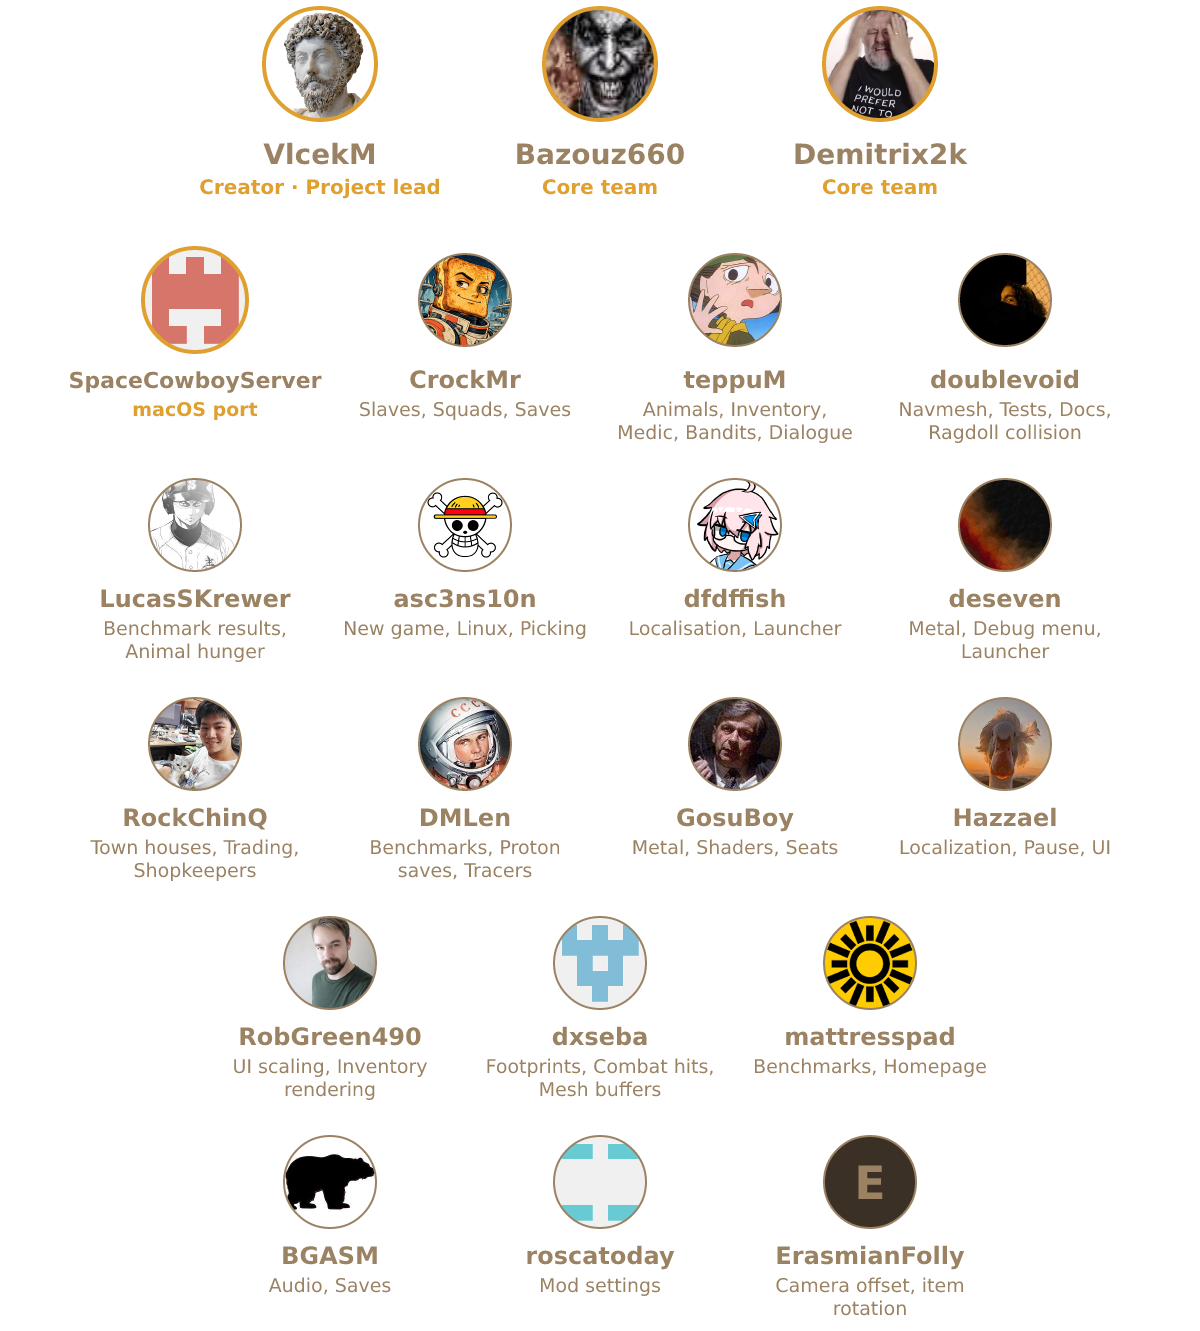
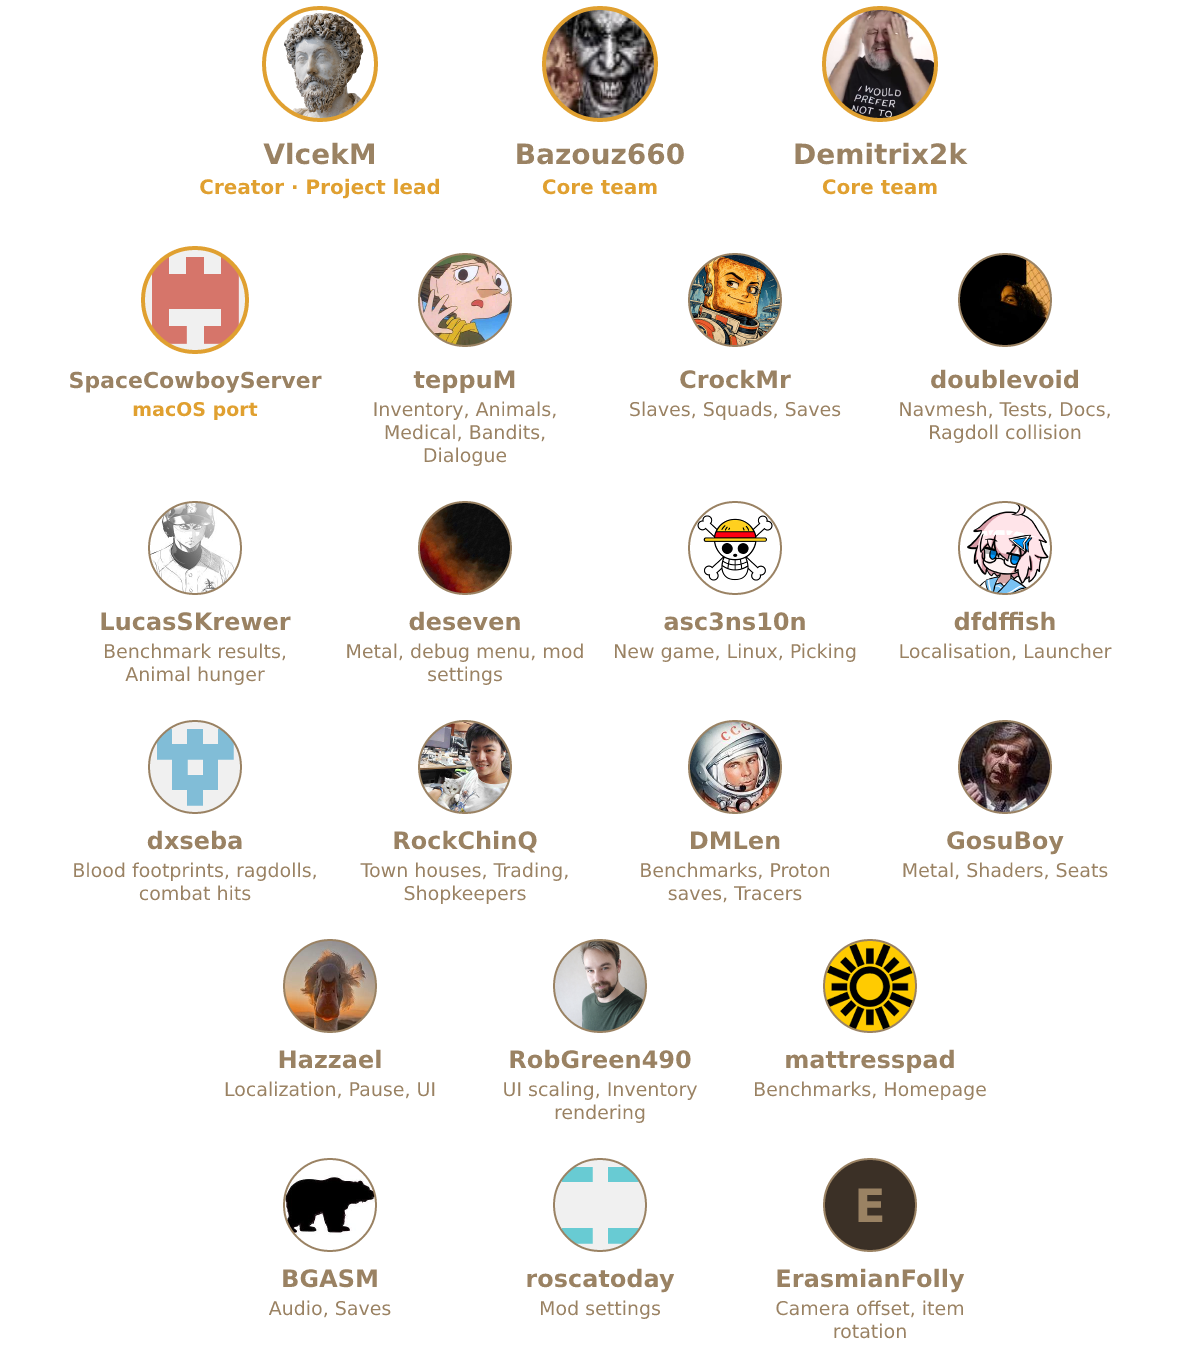
Contributors panel redrawn

diff --git a/README.md b/README.md
@@ -8,7 +8,7 @@ C#/.NET 11 reimplementation of [Kenshi](https://lofigames.com/), aiming to run o
 mods and saves unchanged. **No game assets are shipped; an installed legal copy is required.**
 Architecture/research: [docs index](docs/README.md). Website: [meitou.kenshi.wiki](https://meitou.kenshi.wiki/).
 
-[![Contributors](assets/branding/contributors.png?v=8daa8b74)](https://github.com/VlcekM/MeitouClient/graphs/contributors)
+[![Contributors](assets/branding/contributors.png?v=1555c4dc)](https://github.com/VlcekM/MeitouClient/graphs/contributors)
 
 ## Modding
 
